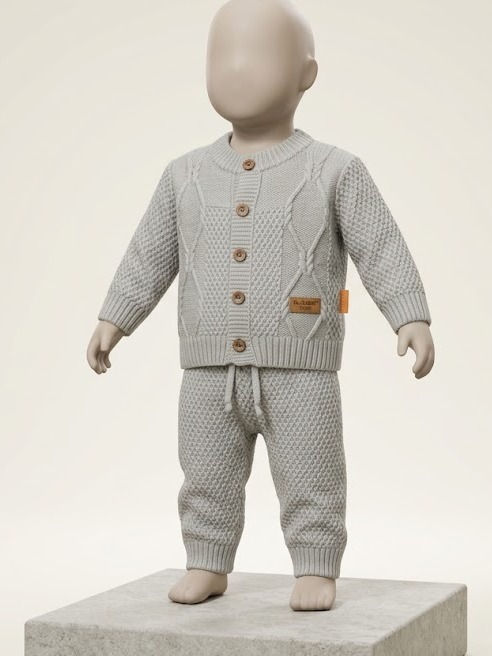
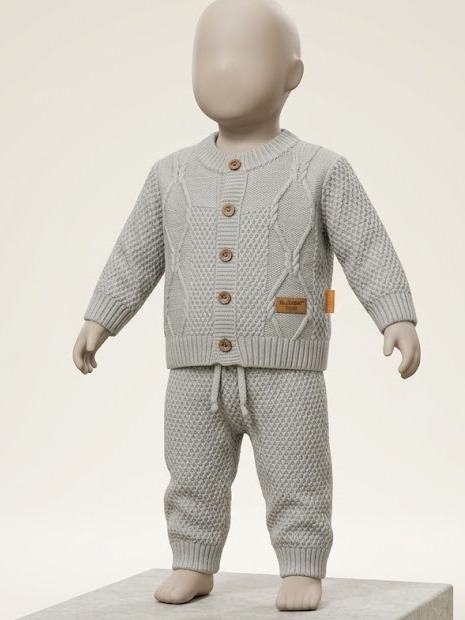
Tighter grey set preview and a photo for the beige colour
Claude-Session: https://claude.ai/code/session_011E1D9o3T5nM1vuvpAz6SnJ

Changed region(s): [[0.0301, 0.0613, 0.9935, 1.0], [0.3914, 0.0613, 0.4215, 0.1532], [0.6022, 0.2758, 0.6323, 0.3065]]

diff --git a/index.html b/index.html
@@ -72,7 +72,7 @@
               </div>
               <p class="doll-hint" id="doll-hint">معاينة الطقم الصوفي باللون السكني.</p>
               <div class="doll-stage" id="doll-stage">
-                <img class="is-mannequin" src="assets/products/preview/wool-grey.jpg" width="492" height="656" alt="طقم البيبي الصوفي على مانيكان منفرد باللون السكني" loading="lazy">
+                <img class="is-mannequin" src="assets/products/preview/wool-grey.jpg" width="465" height="620" alt="طقم البيبي الصوفي على مانيكان منفرد باللون السكني" loading="lazy">
               </div>
               <div class="try-on-label">صور توضيحية للقطعة؛ لا تمثل قياسًا افتراضيًا.</div>
           </aside>

diff --git a/app.js b/app.js
@@ -122,7 +122,7 @@
   function photoClass(src) {
     if (/winter-wool-set-colors\.jpg$/i.test(src)) return "is-color-board";
     if (/\/girls-[^/]+\/product\.jpg$/i.test(src)) return "is-product-photo";
-    if (/winter-wool-set-mannequin-|\/(?:front|back|mannequin)\.(?:jpg|png)$/i.test(src)) return "is-mannequin";
+    if (/winter-wool-set-mannequin-|\/preview\/|\/(?:front|back|mannequin)\.(?:jpg|png)$/i.test(src)) return "is-mannequin";
     return /\.png$/i.test(src) ? "" : "is-photo";
   }
 

diff --git a/store.js b/store.js
@@ -64,7 +64,7 @@ window.MINI_BABY = {
           name: "بيج",
           hex: "#d5bd98",
           mannequin: "assets/products/preview/wool-beige.jpg",
-          photos: []
+          photos: ["assets/products/preview/wool-beige.jpg"]
         }
       ],
       outfit: "winter-knit-set",
